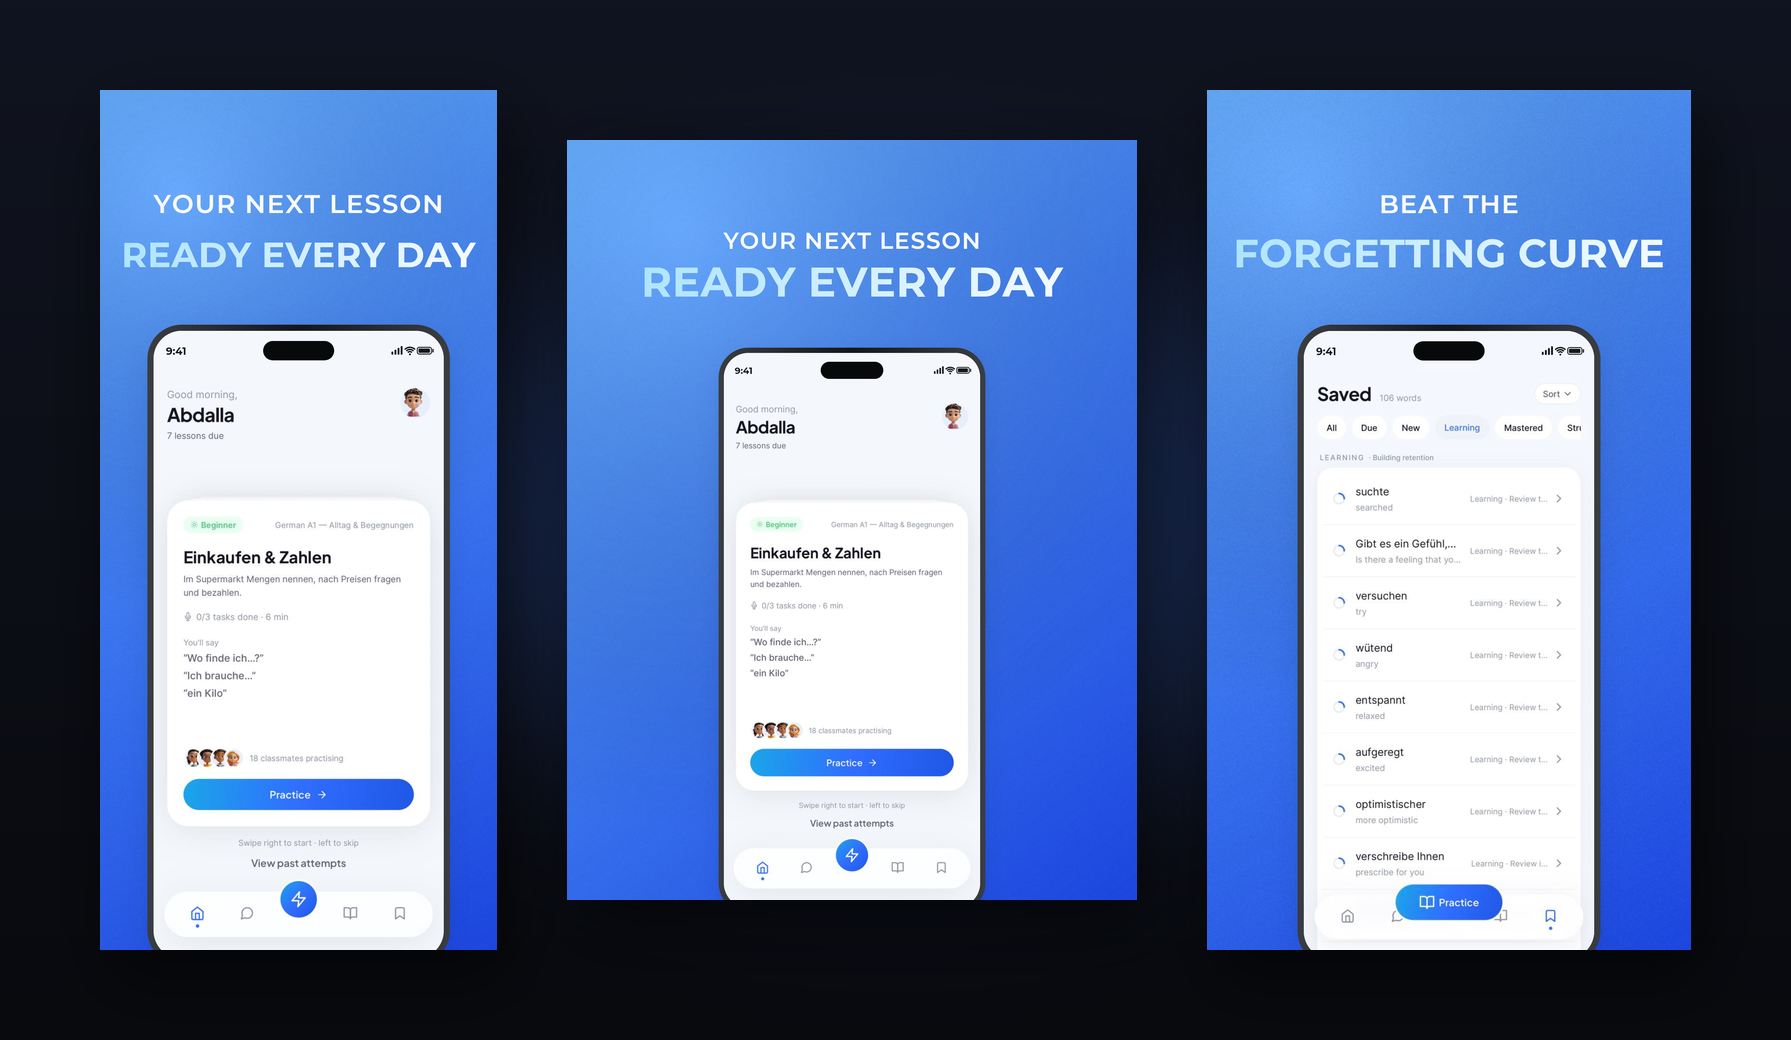
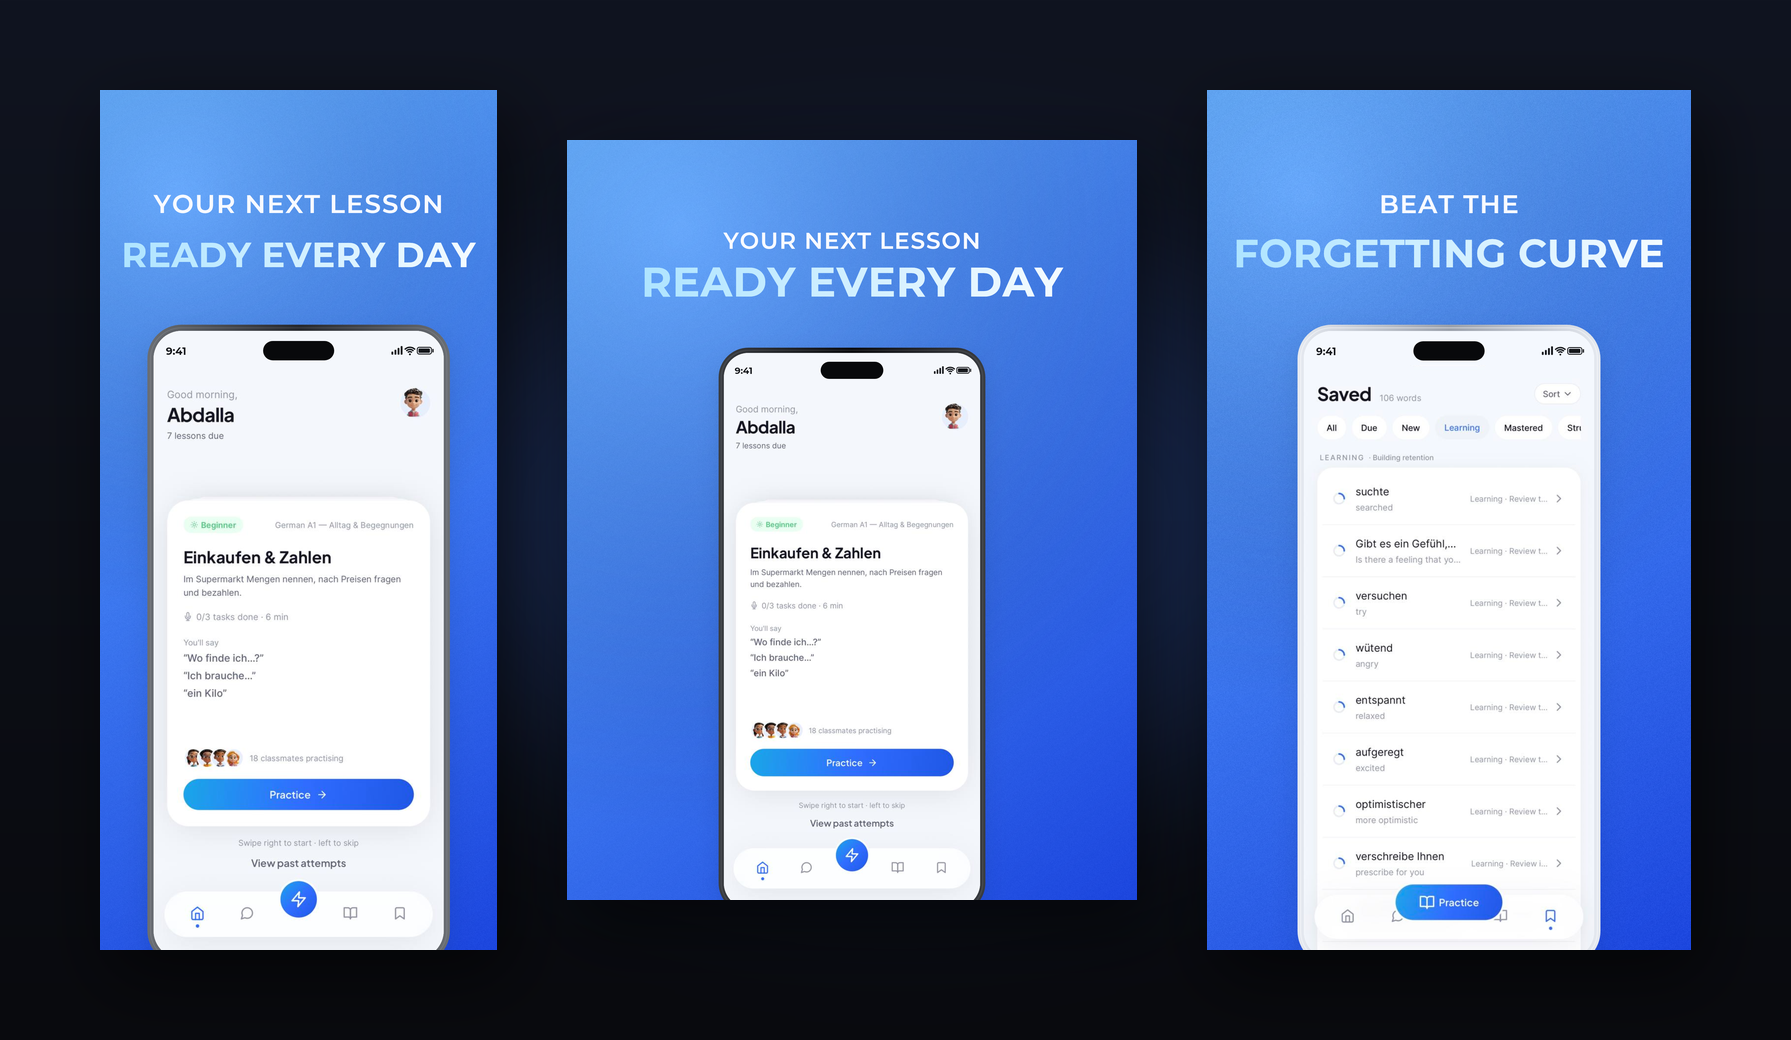
Modern device frame (Dynamic Island + titanium/black/silver finishes) and AI headline options + regenerate (BYOK); refresh README hero

diff --git a/studio/src/App.tsx b/studio/src/App.tsx
@@ -32,6 +32,12 @@ function download(blob: Blob, name: string) {
   setTimeout(() => URL.revokeObjectURL(a.href), 1500)
 }
 
+const OFFLINE_OPTIONS = [
+  { line1: 'LEARN FASTER', line2: 'EVERY DAY' },
+  { line1: 'BUILT FOR', line2: 'REAL PROGRESS' },
+  { line1: 'YOUR WAY', line2: 'TO FLUENCY' },
+]
+
 export function App() {
   const renderer = useMemo(() => createBrowserRenderer(), [])
   const [fontsReady, setFontsReady] = useState(false)
@@ -39,6 +45,8 @@ export function App() {
   const [themeKey, setThemeKey] = useState('brand-blue')
   const [customTheme, setCustomTheme] = useState<Theme | null>(null)
   const [brandColor, setBrandColor] = useState('#5CA8FF')
+  const [deviceColor, setDeviceColor] = useState<'titanium' | 'black' | 'silver'>('titanium')
+  const [options, setOptions] = useState<{ line1: string; line2: string }[]>([])
   const [enabled, setEnabled] = useState<string[]>(allTargets.map((t) => t.id))
   const [activeId, setActiveId] = useState<string | null>(null)
   const [activeStore, setActiveStore] = useState<string>(allTargets[0].id)
@@ -62,8 +70,8 @@ export function App() {
 
   const theme: Theme = useMemo(() => {
     const t = themeKey === 'custom' && customTheme ? customTheme : (PRESET_BY_KEY[themeKey]?.theme ?? PRESET_BY_KEY['brand-blue'].theme)
-    return { ...t, layout }
-  }, [themeKey, layout, customTheme])
+    return { ...t, layout, deviceColor }
+  }, [themeKey, layout, customTheme, deviceColor])
   const active = slides.find((s) => s.id === activeId) || null
   const store = allTargets.find((t) => t.id === activeStore)!
 
@@ -160,6 +168,28 @@ export function App() {
       setCustom(themeFromColors(pal[0], pal[1] ?? darken(pal[0], 0.42)))
       notify('Theme matched to your screenshot')
     } catch { notify('Could not read colors from that image', true) }
+  }
+
+  async function genOptions() {
+    if (!active) return
+    setBusy('Writing options…')
+    const brandVoice = { tone: 'direct' as const, casing: 'upper' as const, banned: [',', '—'] }
+    try {
+      if (aiKey.trim()) {
+        const dir = new OpenAIDirector({ apiKey: aiKey.trim(), model: aiModel })
+        const img = await toDataUrl(active.url)
+        const opts = await dir.options({ id: active.id, image: img, label: active.name }, brandVoice.banned, 'Flowent', 3)
+        setOptions(opts.filter((o) => o.line1 || o.line2))
+        if (!opts.length) notify('No options returned', true)
+      } else {
+        const stores = enabled.map((id) => allTargets.find((t) => t.id === id)!).filter(Boolean)
+        const det = await new DeterministicDirector().generate({ screenshots: [{ id: active.id, image: active.url, label: active.name }], appProfile: { name: 'Flowent' }, brandVoice, stores })
+        const first = det.slides[0]?.headline
+        setOptions([first, ...OFFLINE_OPTIONS].filter(Boolean).slice(0, 3) as { line1: string; line2: string }[])
+      }
+    } catch (e: any) {
+      notify('Options failed: ' + (e?.message || e), true)
+    } finally { setBusy('') }
   }
 
   function applyCopy(res: { slides: { screenshotId: string; headline: { line1: string; line2: string } }[] }) {
@@ -350,6 +380,19 @@ export function App() {
               </>
             ) : <div className="muted">Select a screen.</div>}
             <button className="btn block" disabled={!slides.length || !!busy} onClick={autoHeadlines}>✨ Auto-headlines (AI)</button>
+            <div className="row" style={{ marginTop: 8 }}>
+              <button className="btn sm" style={{ flex: 1 }} disabled={!slides.length || !!busy} onClick={autoHeadlines} title="Re-run for a fresh set">↻ Regenerate</button>
+              <button className="btn sm" style={{ flex: 1 }} disabled={!active || !!busy} onClick={genOptions} title="3 options for this screen">✨ Options</button>
+            </div>
+            {options.length > 0 && (
+              <div className="opts">
+                {options.map((o, i) => (
+                  <button key={i} className="opt" onClick={() => { updateActive({ line1: o.line1, line2: o.line2 }); setOptions([]) }}>
+                    <b>{o.line1 || 'No line 1'}</b><span>{o.line2}</span>
+                  </button>
+                ))}
+              </div>
+            )}
             <button className="btn block" style={{ marginTop: 8 }} disabled={!active || !!busy} onClick={downloadActive}>⬇ Download this slide</button>
             <div style={{ marginTop: 12, paddingTop: 12, borderTop: '1px solid var(--line)' }}>
               <div className="field" style={{ marginBottom: 6 }}>
@@ -368,15 +411,25 @@ export function App() {
 
           <div className="section">
             <h3>Device frame</h3>
-            <label className="btn sm block" style={{ textAlign: 'center', display: 'block' }}>
-              {frameUrl ? 'Change mockup' : '+ Upload your mockup'}
+            <div className="row">
+              {(['titanium', 'black', 'silver'] as const).map((c) => (
+                <button key={c} className={'tab' + (deviceColor === c ? ' active' : '')} style={{ flex: 1, textTransform: 'capitalize' }} onClick={() => setDeviceColor(c)}>{c}</button>
+              ))}
+            </div>
+            <label className="btn sm block" style={{ textAlign: 'center', display: 'block', marginTop: 10 }}>
+              {frameUrl ? 'Change mockup' : '+ Upload your own mockup'}
               <input type="file" accept="image/*" hidden onChange={(e) => { const f = e.target.files?.[0]; if (f) { setFrameUrl(URL.createObjectURL(f)); setTemplateMode(true) } }} />
             </label>
-            <label className="check" style={{ marginTop: 10 }}>
-              <input type="checkbox" checked={templateMode} disabled={!frameUrl} onChange={(e) => setTemplateMode(e.target.checked)} />
-              <span>Template-faithful mode</span>
-            </label>
-            <div className="muted" style={{ marginTop: 6 }}>Drop a real device mockup — the screen is auto-detected, your screenshot is swapped in, and the background recolors to the theme (grain preserved).</div>
+            {frameUrl && (
+              <div className="row" style={{ marginTop: 8, alignItems: 'center' }}>
+                <label className="check" style={{ flex: 1 }}>
+                  <input type="checkbox" checked={templateMode} onChange={(e) => setTemplateMode(e.target.checked)} />
+                  <span>Template-faithful mode</span>
+                </label>
+                <button className="btn sm" onClick={() => { setFrameUrl(null); setTemplateMode(false) }}>Remove</button>
+              </div>
+            )}
+            <div className="muted" style={{ marginTop: 6 }}>Pick a finish for the built-in frame, or drop your own real device mockup — the screen is auto-detected, your screenshot is swapped in, and the background recolors to the theme (grain preserved).</div>
           </div>
 
           <div className="section">

diff --git a/src/device.ts b/src/device.ts
@@ -2,12 +2,23 @@ import type { RenderTarget, LoadedImage } from './render-target'
 import type { StoreTarget } from './types'
 import { roundRectPath } from './imgproc'
 
-// Draw the titanium phone body + the app screenshot inside the screen (clipped to
-// rounded corners, cover-fit by width, top aligned — matching the real templates).
-export function drawDeviceAndScreen(t: RenderTarget, store: StoreTarget, shot: LoadedImage) {
+export type FrameColor = 'titanium' | 'black' | 'silver'
+const BODIES: Record<FrameColor, [string, string, string]> = {
+  titanium: ['#6a6e74', '#26282d', '#6a6e74'],
+  black: ['#3a3d42', '#0b0c0f', '#3a3d42'],
+  silver: ['#e6eaf1', '#9aa0ab', '#e6eaf1'],
+}
+
+// Draw the phone body + the app screenshot inside the screen (clipped to rounded
+// corners, cover-fit by width, top aligned), with a Dynamic Island and an inner
+// bezel highlight for a modern, realistic device look.
+export function drawDeviceAndScreen(
+  t: RenderTarget, store: StoreTarget, shot: LoadedImage, frame: FrameColor = 'titanium',
+) {
   const { ctx } = t
   const d = store.device
   const s = d.screen
+  const stops = BODIES[frame] ?? BODIES.titanium
 
   // body with soft drop shadow
   ctx.save()
@@ -16,12 +27,20 @@ export function drawDeviceAndScreen(t: RenderTarget, store: StoreTarget, shot: L
   ctx.shadowOffsetY = Math.round(d.bezel * 1.5)
   roundRectPath(ctx, s.x - d.bezel, s.y - d.bezel, s.w + d.bezel * 2, s.h + d.bezel * 2, d.cornerRadius + d.bezel)
   const body = ctx.createLinearGradient(s.x - d.bezel, 0, s.x + s.w + d.bezel, 0)
-  body.addColorStop(0, '#3a3d42'); body.addColorStop(0.5, '#141619'); body.addColorStop(1, '#3a3d42')
+  body.addColorStop(0, stops[0]); body.addColorStop(0.5, stops[1]); body.addColorStop(1, stops[2])
   ctx.fillStyle = body
   ctx.fill()
   ctx.restore()
 
-  // screen: clip rounded rect, paint white, draw screenshot
+  // thin inner bezel highlight ring
+  ctx.save()
+  roundRectPath(ctx, s.x - d.bezel * 0.5, s.y - d.bezel * 0.5, s.w + d.bezel, s.h + d.bezel, d.cornerRadius + d.bezel * 0.5)
+  ctx.strokeStyle = frame === 'silver' ? 'rgba(255,255,255,0.45)' : 'rgba(255,255,255,0.10)'
+  ctx.lineWidth = Math.max(1, Math.round(d.bezel * 0.14))
+  ctx.stroke()
+  ctx.restore()
+
+  // screen: clip rounded rect, paint white, draw screenshot, then the island
   ctx.save()
   roundRectPath(ctx, s.x, s.y, s.w, s.h, d.cornerRadius)
   ctx.clip()
@@ -29,5 +48,12 @@ export function drawDeviceAndScreen(t: RenderTarget, store: StoreTarget, shot: L
   ctx.fillRect(s.x, s.y, s.w, s.h)
   const scale = s.w / shot.width
   ctx.drawImage(shot.image, s.x, s.y, s.w, shot.height * scale)
+  if (d.island.w > 0 && d.island.h > 0) {
+    const iw = d.island.w, ih = d.island.h
+    const ix = s.x + (s.w - iw) / 2, iy = s.y + d.island.top
+    roundRectPath(ctx, ix, iy, iw, ih, ih / 2)
+    ctx.fillStyle = '#05070c'
+    ctx.fill()
+  }
   ctx.restore()
 }

diff --git a/src/director/openai.ts b/src/director/openai.ts
@@ -60,6 +60,31 @@ export class OpenAIDirector implements Director {
       notes: [`Generated by OpenAIDirector (${model})`],
     }
   }
+
+  // N distinct two-line options for ONE screenshot (for the studio's "Options" button).
+  async options(
+    screenshot: { id: string; image: string; label?: string },
+    banned: string[], appName: string, count = 3,
+  ): Promise<{ line1: string; line2: string }[]> {
+    const model = this.opts.model ?? 'gpt-4o-mini'
+    const rules = [
+      `App: ${appName}.`,
+      `Write ${count} DISTINCT two-line store headline options for THIS one screenshot. line1 = setup, line2 = payoff. 4 words max per line. ALL CAPS.`,
+      `Never use these tokens: ${banned.join('  ')}. No trailing punctuation, no em dashes.`,
+      'Return JSON exactly: {"options":[{"line1":"...","line2":"..."}]}',
+    ].join('\n')
+    const content: any[] = [{ type: 'text', text: rules }, { type: 'image_url', image_url: { url: screenshot.image } }]
+    const res = await fetch(`${this.opts.baseUrl ?? 'https://api.openai.com/v1'}/chat/completions`, {
+      method: 'POST',
+      headers: { 'Content-Type': 'application/json', Authorization: `Bearer ${this.opts.apiKey}` },
+      body: JSON.stringify({ model, temperature: 0.9, response_format: { type: 'json_object' },
+        messages: [{ role: 'system', content: 'You are a senior App Store copywriter. Reply with JSON only.' }, { role: 'user', content }] }),
+    })
+    if (!res.ok) throw new Error(`AI request failed (${res.status}): ${await res.text()}`)
+    const data: any = await res.json()
+    const parsed = JSON.parse(data?.choices?.[0]?.message?.content ?? '{}')
+    return (parsed.options ?? []).slice(0, count).map((o: any) => ({ line1: strip(String(o.line1 ?? ''), banned), line2: strip(String(o.line2 ?? ''), banned) }))
+  }
 }
 
 

diff --git a/studio/src/styles.css b/studio/src/styles.css
@@ -116,3 +116,11 @@ button.swatch { padding: 0; text-align: left; }
 .crow.ok .dot { background: #38d39f; }
 .crow.warn .dot { background: #ffb020; }
 .crow .hint { color: var(--muted); margin-left: auto; font-size: 11px; text-align: right; max-width: 56%; }
+
+/* --- AI headline options --- */
+.opts { display: flex; flex-direction: column; gap: 6px; margin-top: 8px; }
+.opt { text-align: left; border: 1px solid var(--line); background: var(--panel2); color: var(--text);
+  border-radius: 8px; padding: 8px 10px; cursor: pointer; display: flex; flex-direction: column; gap: 1px; }
+.opt:hover { border-color: var(--accent); }
+.opt b { font-size: 12px; letter-spacing: .3px; }
+.opt span { color: var(--muted); font-size: 11px; }

diff --git a/src/compose.ts b/src/compose.ts
@@ -26,7 +26,7 @@ export async function renderSlide(
   }
   const eff = effectiveStore(store, project.theme.layout ?? 'headline-top')
   const shot = await renderer.loadImage(slide.screenshot)
-  drawDeviceAndScreen(t, eff, shot)
+  drawDeviceAndScreen(t, eff, shot, project.theme.deviceColor)
   drawStatusBar(t, eff)
   drawHeadline(t, eff, project.theme, slide.headline.line1, slide.headline.line2)
   return t

diff --git a/src/types.ts b/src/types.ts
@@ -15,6 +15,7 @@ export interface Theme {
   gradient: [string, string]    // line 2 gradient stops (left -> right)
   background: BackgroundSpec
   layout?: Layout               // default 'headline-top'
+  deviceColor?: 'titanium' | 'black' | 'silver'  // synthetic frame finish
 }
 
 export interface DeviceSpec {